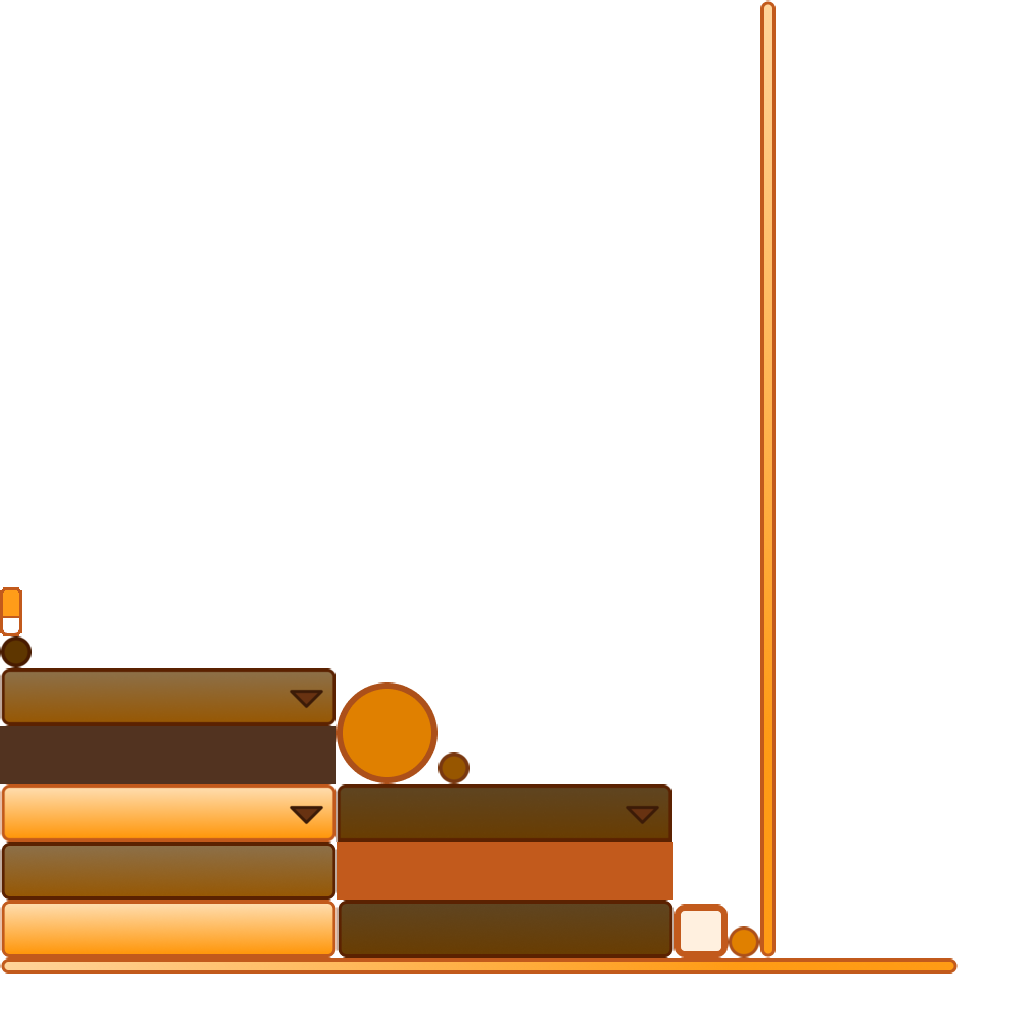
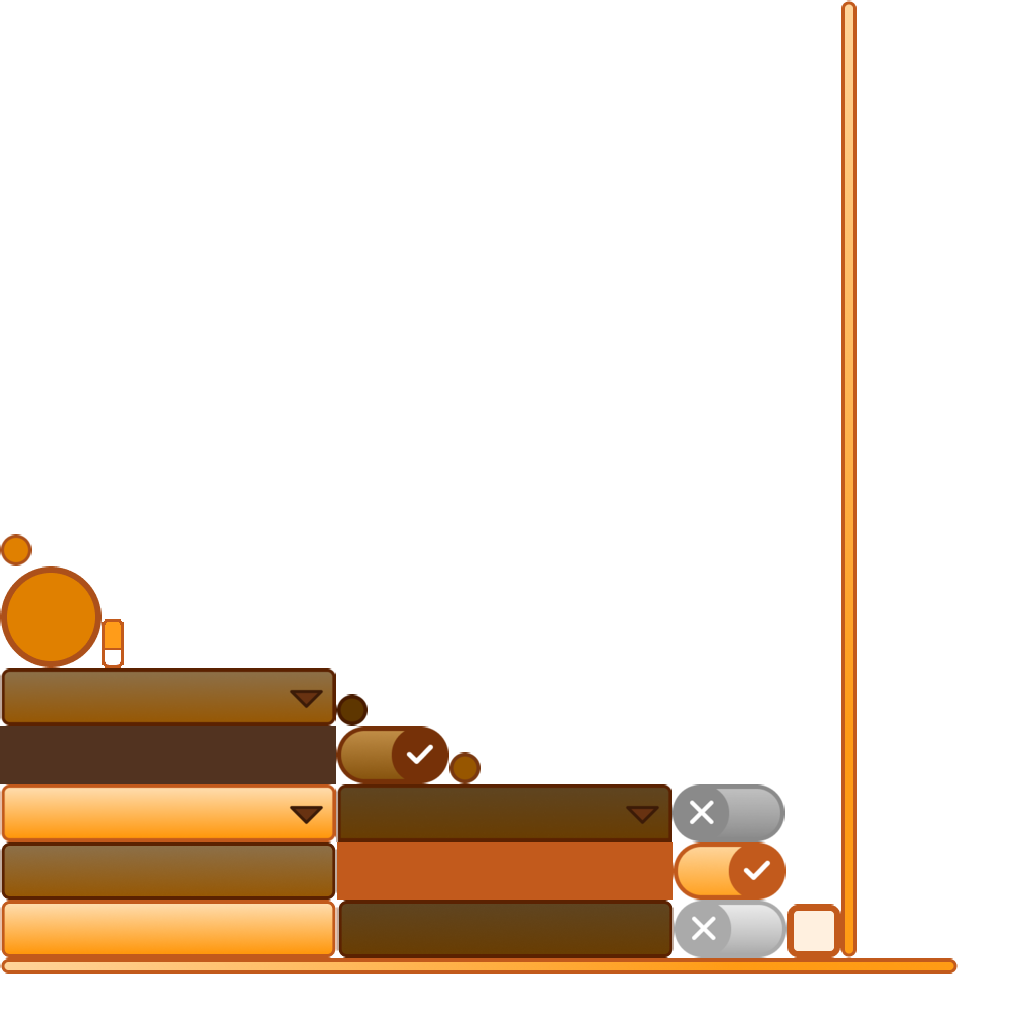
implement basic settings for coop toggle

Changed region(s): [[0.6562, 0.0, 0.8438, 0.9375], [0.3125, 0.6562, 0.4688, 0.7812], [0.0, 0.5, 0.125, 0.6562]]

diff --git a/core/src/main/java/walknroll/zoodini/controllers/screens/SettingsScene.java b/core/src/main/java/walknroll/zoodini/controllers/screens/SettingsScene.java
@@ -11,6 +11,7 @@ import com.badlogic.gdx.scenes.scene2d.Actor;
 import com.badlogic.gdx.scenes.scene2d.InputEvent;
 import com.badlogic.gdx.scenes.scene2d.InputListener;
 import com.badlogic.gdx.scenes.scene2d.Stage;
+import com.badlogic.gdx.scenes.scene2d.ui.CheckBox;
 import com.badlogic.gdx.scenes.scene2d.ui.Container;
 import com.badlogic.gdx.scenes.scene2d.ui.Label;
 import com.badlogic.gdx.scenes.scene2d.ui.SelectBox;
@@ -28,15 +29,16 @@ import edu.cornell.gdiac.assets.AssetDirectory;
 import edu.cornell.gdiac.graphics.SpriteBatch;
 import edu.cornell.gdiac.util.ScreenListener;
 import walknroll.zoodini.GDXRoot;
-import walknroll.zoodini.utils.GameSettings;
 import walknroll.zoodini.utils.FreeTypeSkin;
+import walknroll.zoodini.utils.GameSettings;
 
 public class SettingsScene implements Screen {
+
     private ScreenListener listener;
 
     /** The drawing camera for this scene */
     private OrthographicCamera camera;
-    
+
     /** Reference to sprite batch created by the root */
     private SpriteBatch batch;
 
@@ -179,12 +181,14 @@ public class SettingsScene implements Screen {
         // window.getTitleTable().add(closeWindow).height(window.getPadTop());
         window.row().fill().expandX();
 
-        window.add(new Label("Use Ability", skin, "dark")).width(Value.percentWidth(0.25f, container))
+        window.add(new Label("Use Ability", skin, "dark")).width(Value.percentWidth(0.25f,
+                container))
                 .pad(Value.percentWidth(0.01f, container));
         TextButton setAbilityKey = new TextButton(
                 "Current: " + Input.Keys.toString(this.stagedSettings.getAbilityKey()),
                 skin);
         setAbilityKey.addListener(new ChangeListener() {
+
             public void changed(ChangeEvent event, Actor actor) {
                 SettingsScene.this.waitingForAbilityKey = true;
                 SettingsScene.this.waitingForSwapKey = false;
@@ -192,29 +196,36 @@ public class SettingsScene implements Screen {
             }
         });
         window.add(setAbilityKey).width(Value.percentWidth(0.2f, container))
-                .height(Value.percentHeight(0.06f, container)).pad(Value.percentWidth(0.01f, container));
+                .height(Value.percentHeight(0.06f, container)).pad(Value.percentWidth(0.01f,
+                        container));
 
         window.row();
-        window.add(new Label("Swap Character", skin, "dark")).width(Value.percentWidth(0.25f, container))
+        window.add(new Label("Swap Character", skin, "dark")).width(Value.percentWidth(0.25f,
+                container))
                 .pad(Value.percentWidth(0.01f, container));
-        TextButton setSwapKey = new TextButton("Current: " + Input.Keys.toString(this.stagedSettings.getSwapKey()),
+        TextButton setSwapKey = new TextButton("Current: " + Input.Keys.toString(this.stagedSettings
+                .getSwapKey()),
                 skin);
         setSwapKey.addListener(new ChangeListener() {
+
             public void changed(ChangeEvent event, Actor actor) {
                 SettingsScene.this.waitingForSwapKey = true;
                 SettingsScene.this.waitingForAbilityKey = false;
                 SettingsScene.this.waitingForFollowKey = false;
             }
         });
-        window.add(setSwapKey).width(Value.percentWidth(0.2f, container)).height(Value.percentHeight(0.06f, container))
+        window.add(setSwapKey).width(Value.percentWidth(0.2f, container)).height(Value
+                .percentHeight(0.06f, container))
                 .pad(Value.percentWidth(0.01f, container));
 
         window.row();
-        window.add(new Label("Toggle Following", skin, "dark")).width(Value.percentWidth(0.25f, container))
+        window.add(new Label("Toggle Following", skin, "dark")).width(Value.percentWidth(0.25f,
+                container))
                 .pad(Value.percentWidth(0.01f, container));
         TextButton setFollowButton = new TextButton(
                 "Current: " + Input.Keys.toString(this.stagedSettings.getFollowKey()), skin);
         setFollowButton.addListener(new ChangeListener() {
+
             public void changed(ChangeEvent event, Actor actor) {
                 SettingsScene.this.waitingForFollowKey = true;
                 SettingsScene.this.waitingForAbilityKey = false;
@@ -226,6 +237,7 @@ public class SettingsScene implements Screen {
                 .pad(Value.percentWidth(0.01f, container));
 
         stage.addListener(new InputListener() {
+
             public boolean keyDown(InputEvent event, int keycode) {
                 if (keycode == Input.Keys.ESCAPE) {
                     return false;
@@ -251,12 +263,14 @@ public class SettingsScene implements Screen {
 
         window.row();
         window.add(
-                new Label("Change a keybind by clicking its button, then typing a new key", skin, "dark"))
+                new Label("Change a keybind by clicking its button, then typing a new key", skin,
+                        "dark"))
                 .colspan(2);
 
         window.row();
         TextButton closeWindow = new TextButton("Done", skin);
         closeWindow.addListener(new ChangeListener() {
+
             public void changed(ChangeEvent event, Actor actor) {
                 window.setVisible(false);
             }
@@ -277,10 +291,24 @@ public class SettingsScene implements Screen {
         Value labelWidth = Value.percentWidth(0.33f, table);
         Value controlWidth = Value.percentWidth(0.5f, table);
 
+        table.add(new Label("Co-op Mode", skin)).left().width(labelWidth);
+        CheckBox coopCheckBox = new CheckBox("", skin);
+        coopCheckBox.setChecked(stagedSettings.isCoopEnabled());
+        coopCheckBox.addListener(new ChangeListener() {
+
+            @Override
+            public void changed(ChangeEvent event, Actor actor) {
+                SettingsScene.this.stagedSettings.setCoopEnabled(coopCheckBox.isChecked());
+            }
+        });
+        table.add(coopCheckBox).left().width(111);
+
+        table.row();
         table.add(new Label("Music Volume", skin)).left().width(labelWidth);
         Slider musicVolumeSlider = new Slider(0f, 100f, 1f, false, skin);
         musicVolumeSlider.setValue(stagedSettings.getMusicVolume());
         musicVolumeSlider.addListener(new ChangeListener() {
+
             @Override
             public void changed(ChangeEvent event, Actor actor) {
                 SettingsScene.this.stagedSettings.setMusicVolume(musicVolumeSlider.getValue());
@@ -293,6 +321,7 @@ public class SettingsScene implements Screen {
         Slider soundVolumeSlider = new Slider(0f, 100f, 1f, false, skin);
         soundVolumeSlider.setValue(stagedSettings.getSoundVolume());
         soundVolumeSlider.addListener(new ChangeListener() {
+
             @Override
             public void changed(ChangeEvent event, Actor actor) {
                 SettingsScene.this.stagedSettings.setSoundVolume(soundVolumeSlider.getValue());
@@ -307,6 +336,7 @@ public class SettingsScene implements Screen {
         resolutionSelect.setSelected(this.stagedSettings.getResolution());
         resolutionSelect.setAlignment(Align.center);
         resolutionSelect.addListener(new ChangeListener() {
+
             public void changed(ChangeEvent event, Actor actor) {
                 SettingsScene.this.stagedSettings.setResolution(resolutionSelect.getSelected());
             }
@@ -317,6 +347,7 @@ public class SettingsScene implements Screen {
         table.add(new Label("Update Keybinds", skin)).left().width(labelWidth);
         TextButton keybindsDialogOpen = new TextButton("Open Keybind Editor", skin);
         keybindsDialogOpen.addListener(new ChangeListener() {
+
             public void changed(ChangeEvent event, Actor actor) {
                 window.setVisible(true);
             }
@@ -327,6 +358,7 @@ public class SettingsScene implements Screen {
         table.add(new Label("Reset Game State", skin)).left().width(labelWidth);
         TextButton resetGameState = new TextButton("Reset", skin);
         resetGameState.addListener(new ChangeListener() {
+
             public void changed(ChangeEvent event, Actor actor) {
                 SettingsScene.this.resetState = true;
             }
@@ -336,6 +368,7 @@ public class SettingsScene implements Screen {
         table.row();
         TextButton menuSaveReturn = new TextButton("Save & Exit to Menu", skin);
         menuSaveReturn.addListener(new ChangeListener() {
+
             public void changed(ChangeEvent event, Actor actor) {
                 SettingsScene.this.settings = SettingsScene.this.stagedSettings;
                 listener.exitScreen(SettingsScene.this, GDXRoot.EXIT_MENU);
@@ -345,6 +378,7 @@ public class SettingsScene implements Screen {
 
         TextButton menuReturn = new TextButton("Discard & Exit to Menu", skin);
         menuReturn.addListener(new ChangeListener() {
+
             public void changed(ChangeEvent event, Actor actor) {
                 listener.exitScreen(SettingsScene.this, GDXRoot.EXIT_MENU);
             }

diff --git a/core/src/main/java/walknroll/zoodini/utils/GameSettings.java b/core/src/main/java/walknroll/zoodini/utils/GameSettings.java
@@ -4,33 +4,34 @@ import com.badlogic.gdx.Input;
 import com.badlogic.gdx.Preferences;
 
 public class GameSettings {
+
     private int abilityKey;
     private int swapKey;
     private int followKey;
-
     private String resolution;
-
     private float musicVolume;
-
     private float soundVolume;
+    private boolean coopEnabled;
 
     public GameSettings() {
-        this(Input.Keys.E, Input.Keys.SPACE, Input.Keys.F, "1280x720", 100f, 100f);
+        this(Input.Keys.E, Input.Keys.SPACE, Input.Keys.F, "1280x720", 100f, 100f, false);
     }
 
-    public GameSettings(int abilityKey, int swapKey, int followKey, String resolution, float musicVolume,
-            float soundVolume) {
+    public GameSettings(int abilityKey, int swapKey, int followKey, String resolution,
+            float musicVolume,
+            float soundVolume, boolean coopEnabled) {
         this.abilityKey = abilityKey;
         this.swapKey = swapKey;
         this.followKey = followKey;
         this.resolution = resolution;
         this.musicVolume = musicVolume;
         this.soundVolume = soundVolume;
+        this.coopEnabled = coopEnabled;
     }
 
     public GameSettings(GameSettings other) {
         this(other.abilityKey, other.swapKey, other.followKey, other.resolution, other.musicVolume,
-                other.soundVolume);
+                other.soundVolume, other.coopEnabled);
     }
 
     public GameSettings(Preferences prefs) {
@@ -41,6 +42,15 @@ public class GameSettings {
         this.resolution = prefs.getString("resolution", defaults.getResolution());
         this.musicVolume = prefs.getFloat("musicVolume", defaults.getMusicVolume());
         this.soundVolume = prefs.getFloat("soundVolume", defaults.getSoundVolume());
+        this.coopEnabled = prefs.getBoolean("coopEnabled", defaults.isCoopEnabled());
+    }
+
+    public boolean isCoopEnabled() {
+        return coopEnabled;
+    }
+
+    public void setCoopEnabled(boolean coopEnabled) {
+        this.coopEnabled = coopEnabled;
     }
 
     public int getFollowKey() {
@@ -98,5 +108,6 @@ public class GameSettings {
         prefs.putInteger("swapKey", this.swapKey);
         prefs.putInteger("followKey", this.followKey);
         prefs.putString("resolution", this.resolution);
+        prefs.putBoolean("coopEnabled", this.coopEnabled);
     }
 }
